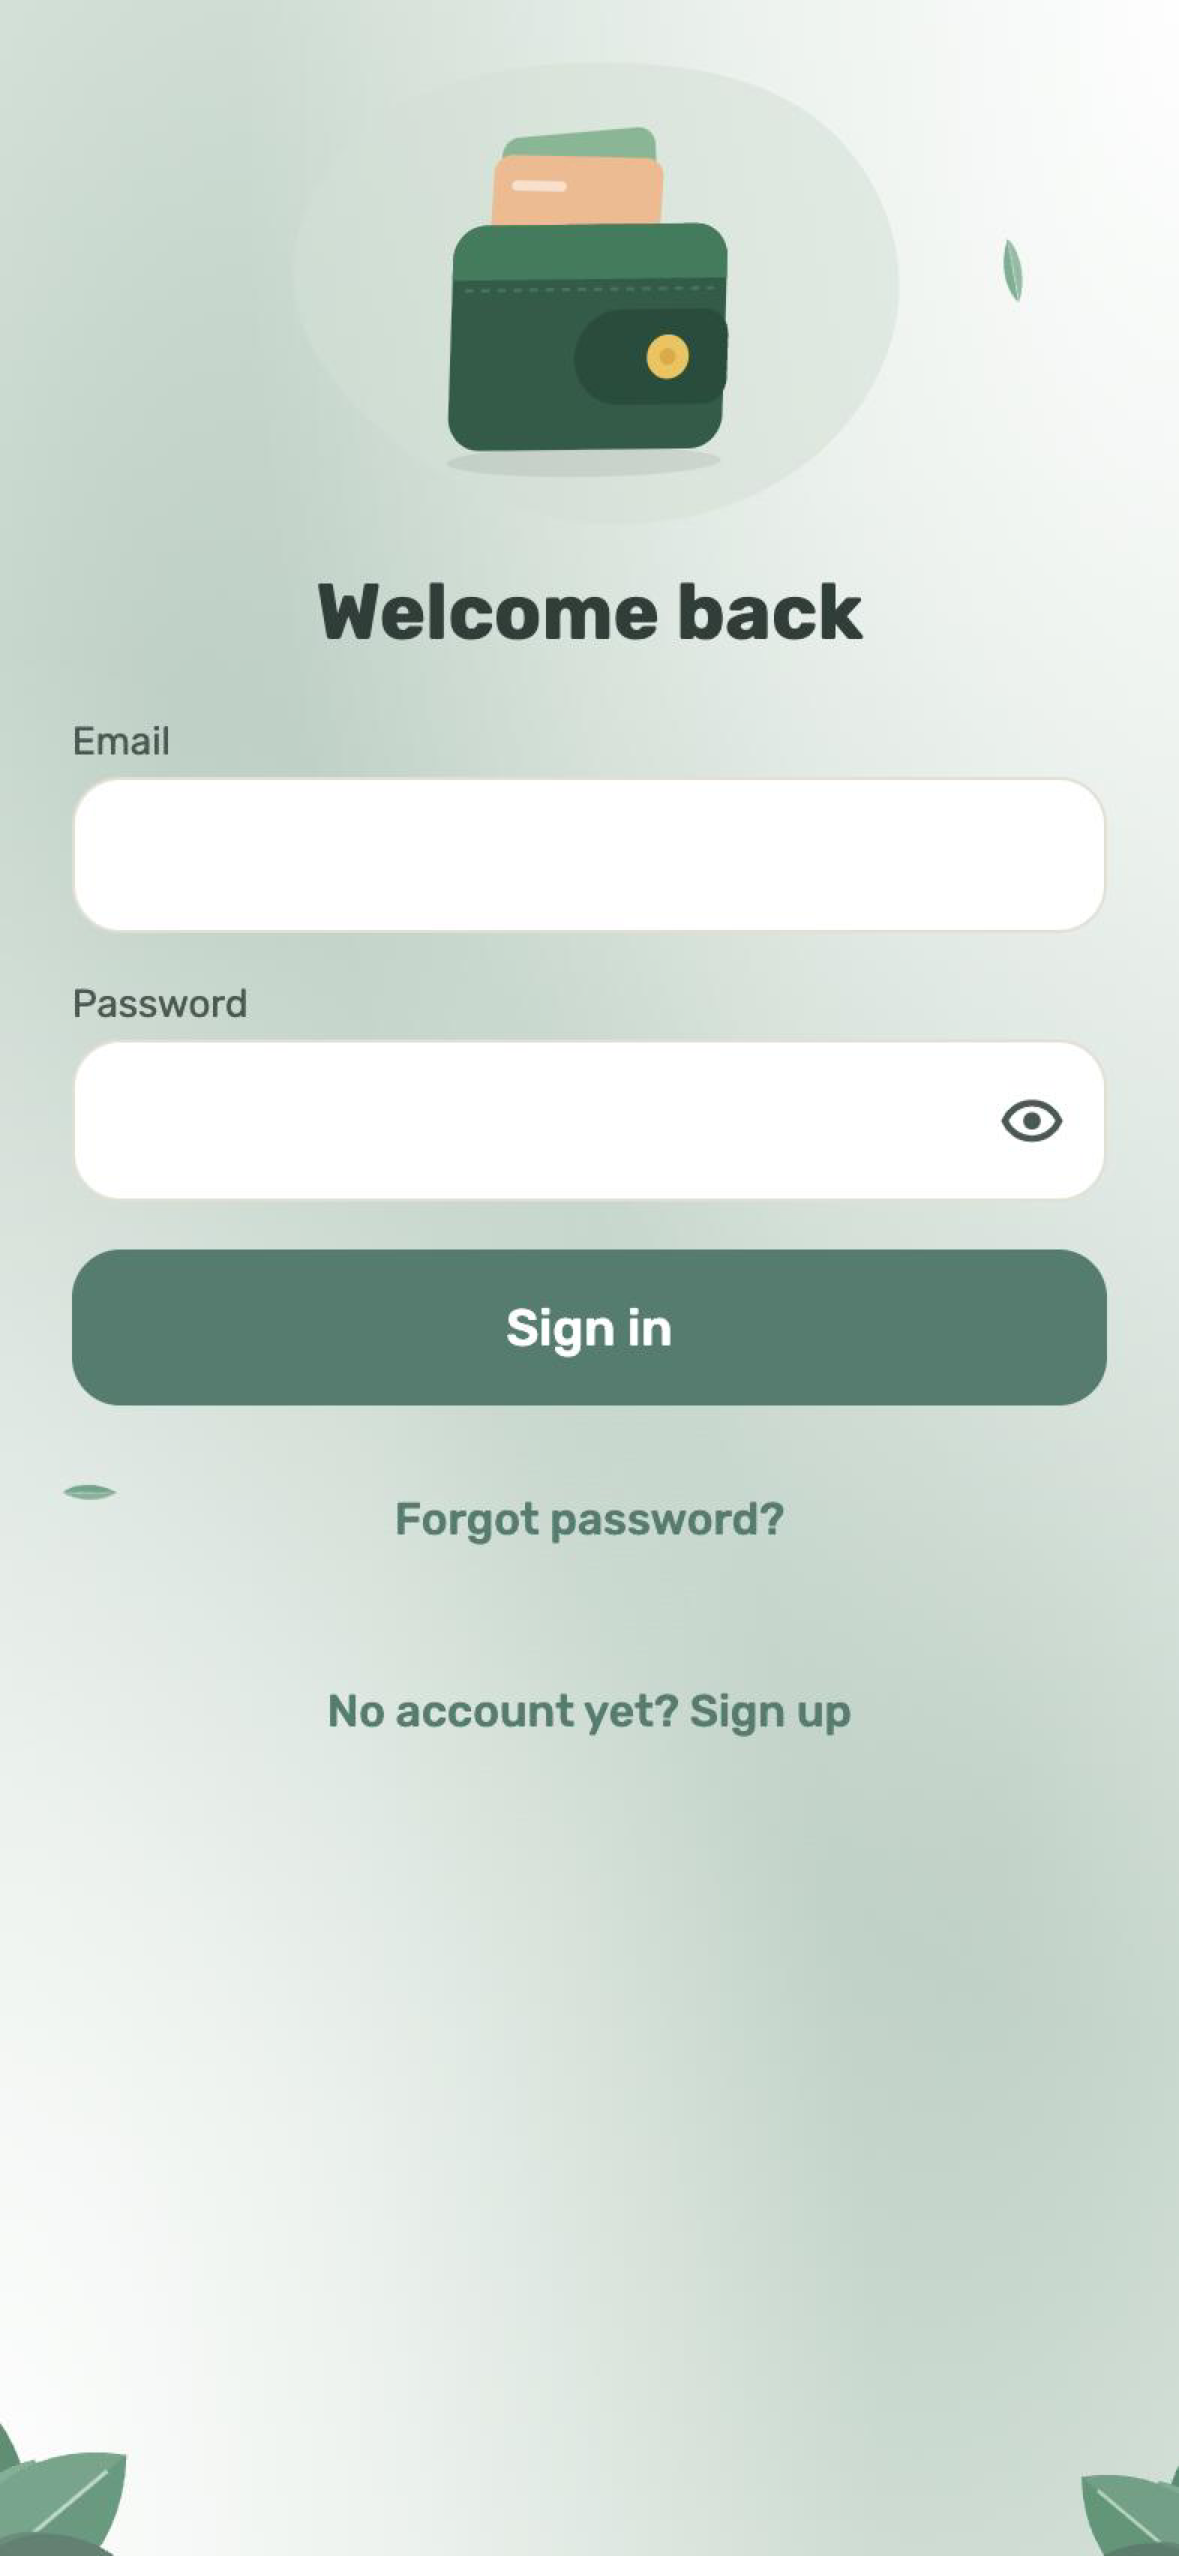
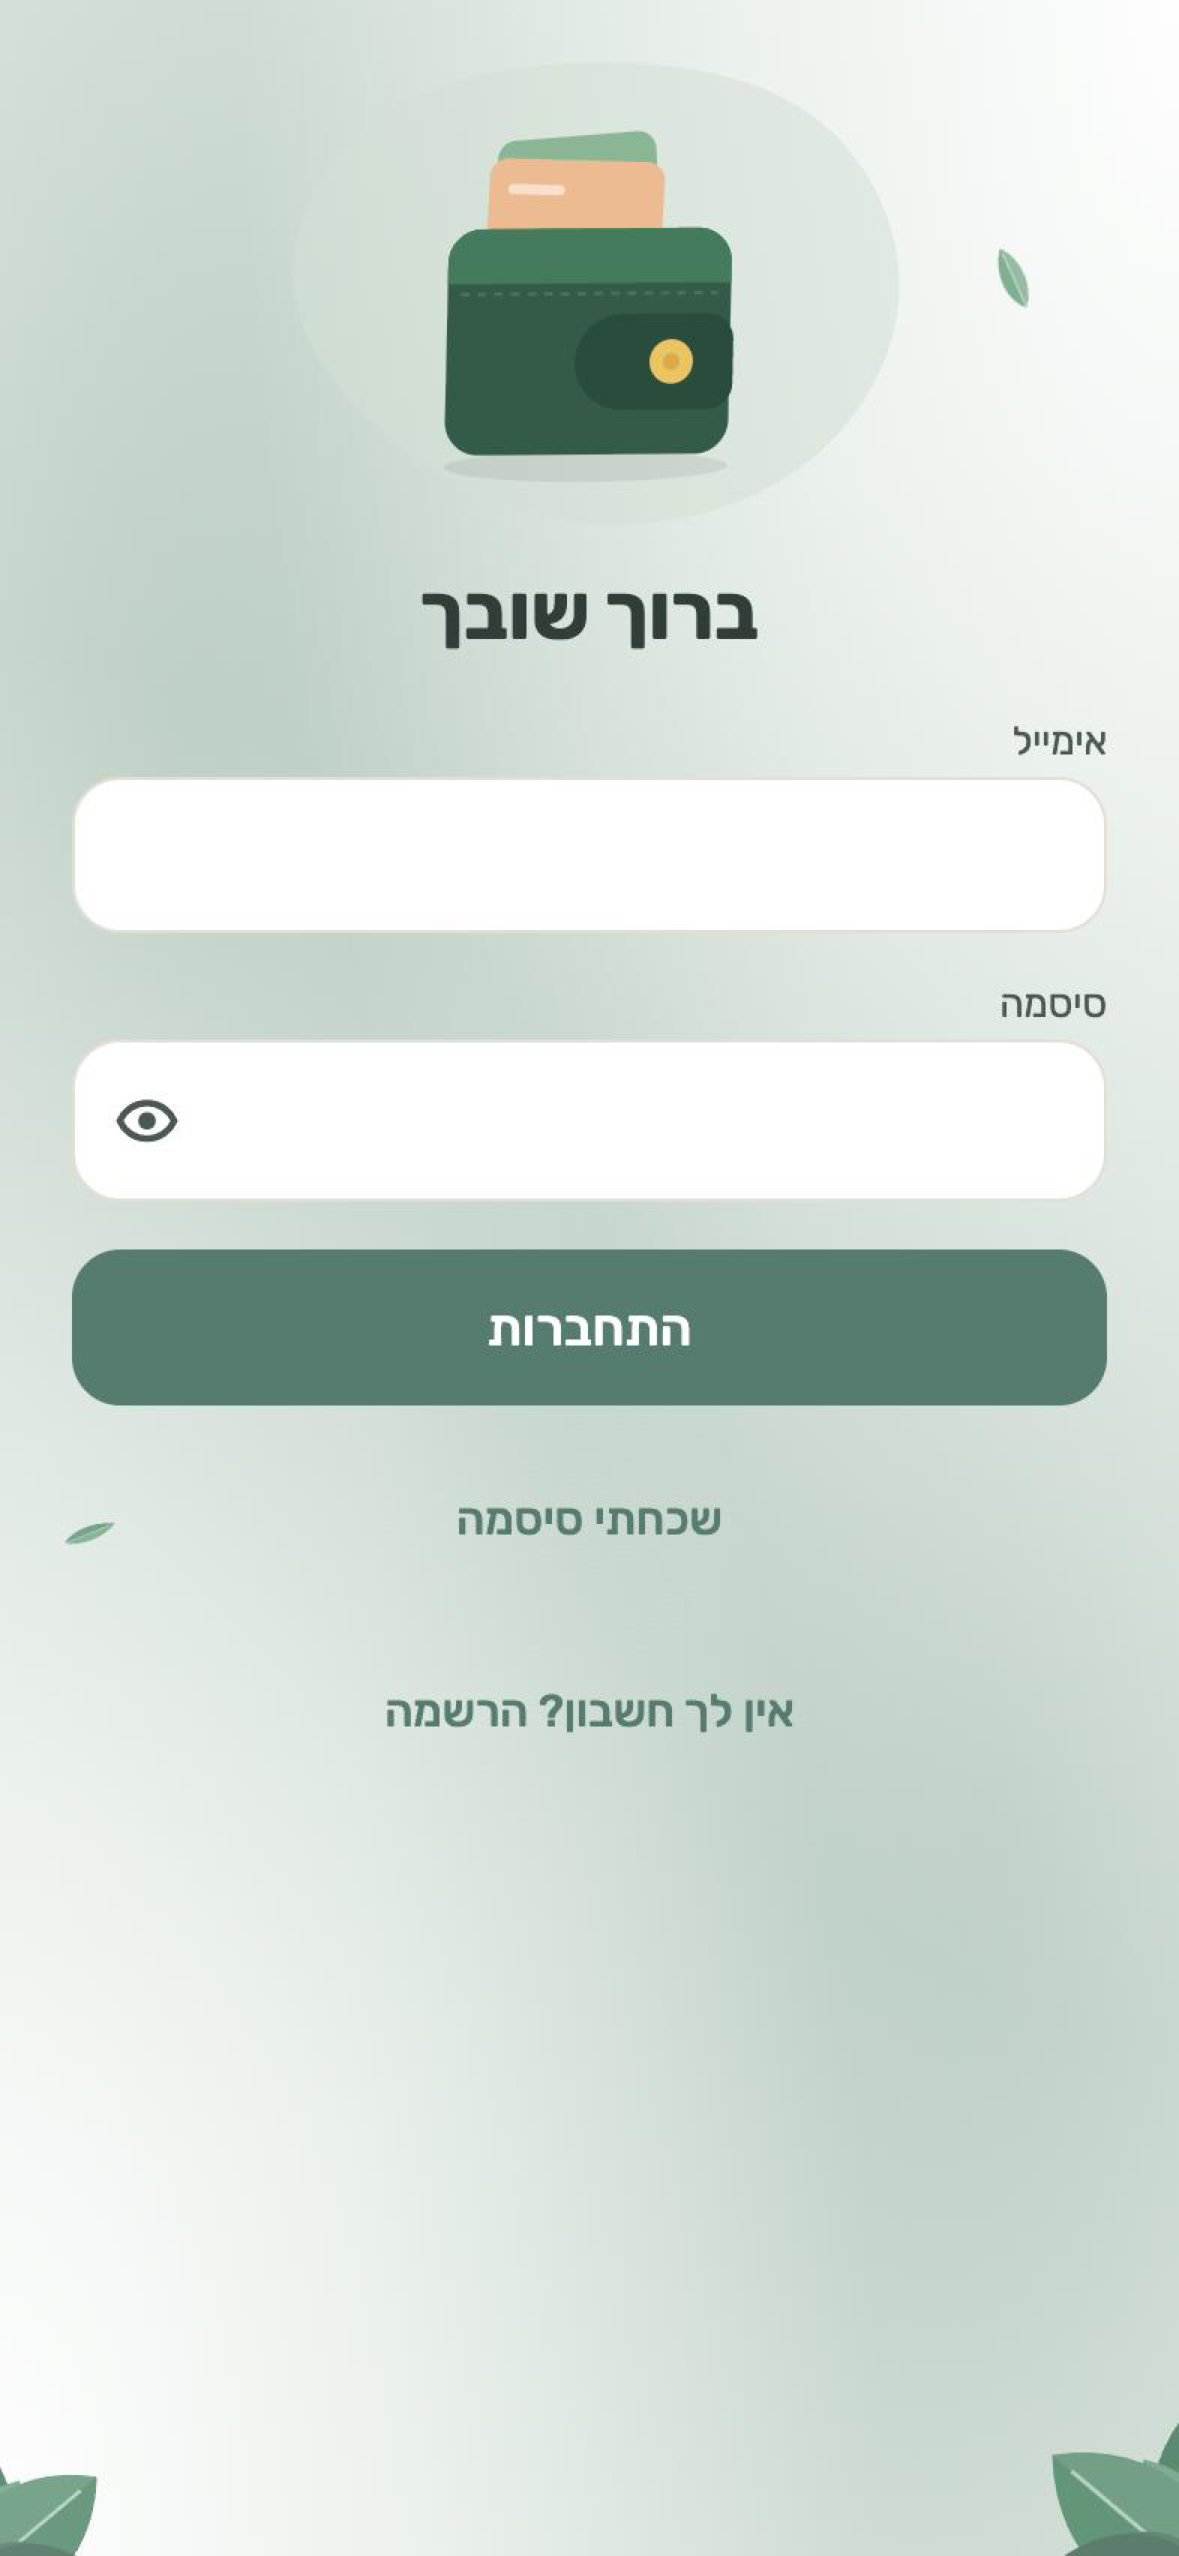
docs: Hebrew sign-in shot, architecture without planned marks or Bit box
- Sign in screenshot now in Hebrew, caption updated
- architecture.svg: offline cache and notifications drawn as live, Bit box removed
- README: offline + notifications row

diff --git a/README.md b/README.md
@@ -40,7 +40,7 @@ Access is a yearly subscription. Users pay by **Bit**, and an admin approves eac
 | **Admin dashboard** | Next.js on Vercel. Approves Bit payments, manages users and subscriptions through admin-only RPCs. |
 | **Supabase** | Auth (email, OTP, reset), PostgreSQL with Row Level Security on every table, RPCs for totals, `pg_cron` for daily expiry. |
 | **Shared packages** | `@finny/shared`: money math and budget periods. `@finny/tokens`: one design system for both apps. |
-| **Planned** | Offline cache + write queue, push notifications (daily reminder, subscription expiry) via Edge Function → Expo Push. |
+| **Offline + notifications** | Offline cache with a write queue that syncs when back online. Push notifications (daily reminder, subscription expiry) via Edge Function → Expo Push. |
 
 **Money is never a float.** Every amount is stored as an integer in minor units (agorot / cents) and formatted in one place.
 
